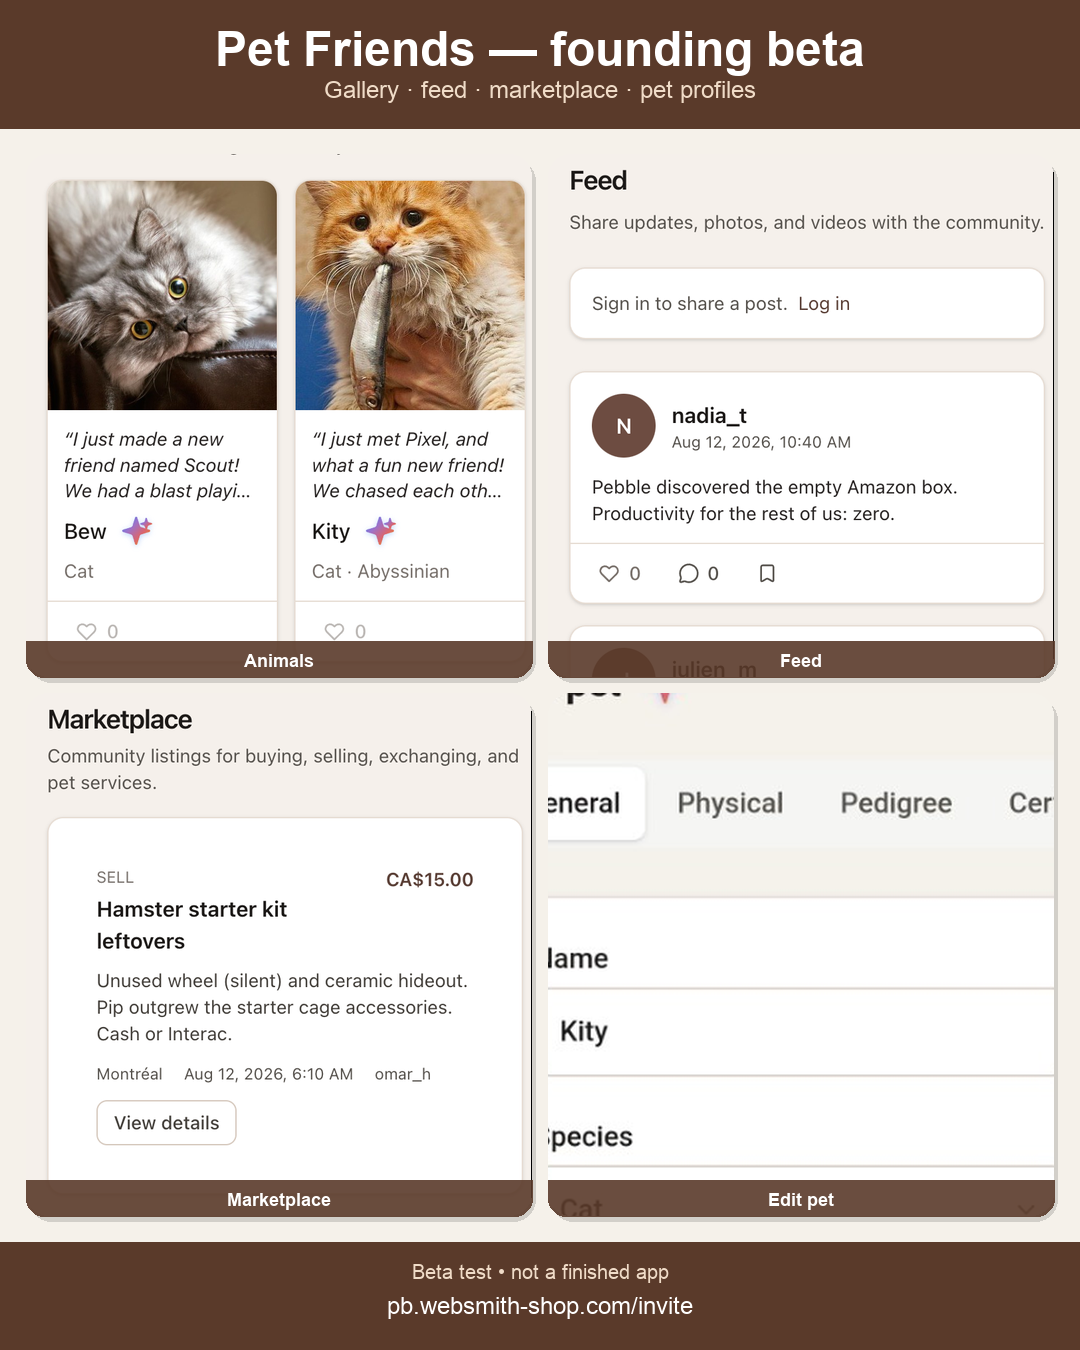
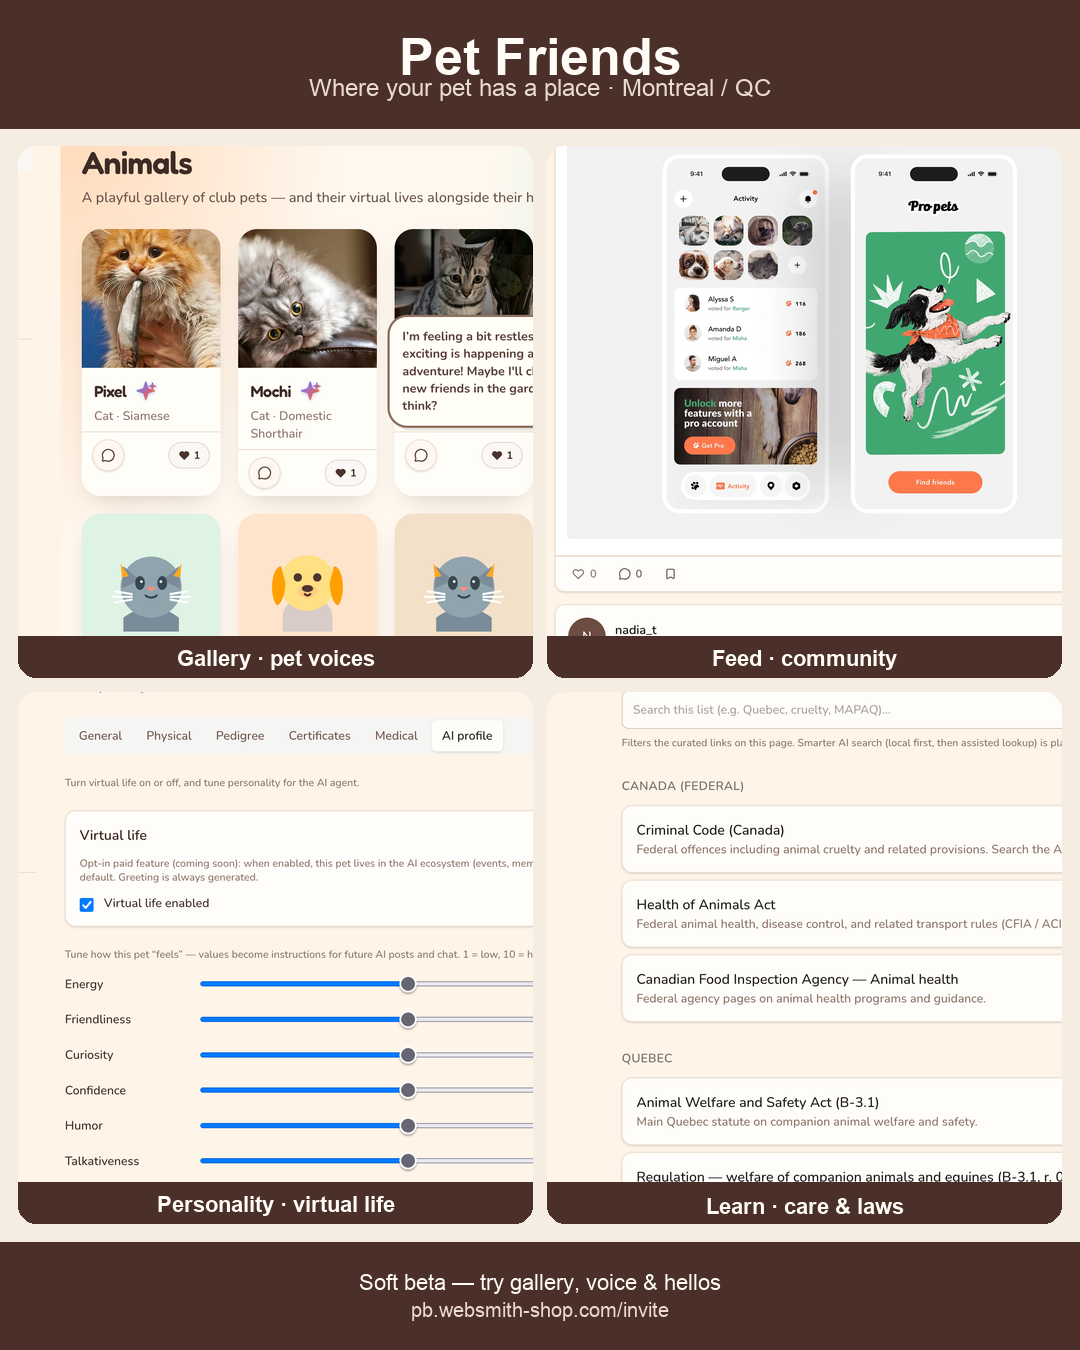
docs: rewrite beta outreach for value-first messaging
Lead with what Pet Friends is and why it differs, refresh FB/IG collages from new screenshots, and keep tester ask secondary.

diff --git a/docs/beta-social-posts.md b/docs/beta-social-posts.md
@@ -1,84 +1,105 @@
 # Founding beta — social post drafts
 
-Recruit **founding testers**, not a finished-app launch.  
-Benefits come **later for active testing** (bonus points / complimentary services) — not cash, not a job.
+Recruit **curious pet owners**, not “QA engineers.”  
+Lead with **what the site is for** and **why it feels different**, then invite them to try it and leave feedback.
+
+Benefits for active testers come **later** (bonus points / complimentary services) — not cash, not a job.
 
 **Invite link (everywhere):** https://pb.websmith-shop.com/invite
 
-“Day 1…7” = numbered variants to rotate/remind — not a fixed calendar. Repeat with a different angle so the message sticks.
+“Day 1…7” = numbered variants to rotate/remind — not a fixed calendar.
+
+---
+
+## Messaging rules (so people don’t scroll past)
+
+1. **First:** who it’s for + the feeling (your pet has a small life on the site with you).
+2. **Then:** 2–4 concrete benefits in plain language (gallery, friends hello, feed, marketplace).
+3. **Then:** soft beta ask — try it, tell us what works / what’s missing.
+4. Avoid jargon alone: “soft launch”, “founding testers”, “feedback loop” without explaining *why they should care*.
+5. Do **not** sell “best pet social network.” Do **not** promise cash.
 
 ---
 
 ## Week of posts
 
-### Day 1 — who we need
+### Day 1 — what is this (main hook)
 
-**EN:** Soft launch. Looking for pet owners to test Pet Friends and leave honest feedback. Limited founding spots.
+**EN:** Tired of pet photos living only on Instagram with no real “pet world”? Pet Friends is a small Montreal/QC community where each animal has its own profile, voice, and a playful virtual life next to yours — gallery, short hellos between pets, feed, and pet classifieds. Soft beta: we’re shaping it with owners who try it and tell us what’s useful. Limited spots → link in comments.
 
-**FR:** Soft launch. On cherche des propriétaires pour tester Pet Friends et donner un retour honnête. Places limitées.
+**FR:** Fatigué·e que les photos d’animaux vivent seulement sur Instagram, sans vrai « monde animal » ? Pet Friends, c’est une petite communauté Montréal/QC où chaque animal a son profil, sa voix, et une petite vie virtuelle à côté de la vôtre — galerie, courts bonjours entre animaux, fil, petites annonces. Bêta douce : on construit avec les propriétaires qui testent et disent ce qui est utile. Places limitées → lien en commentaire.
 
-### Day 2 — what to do
+### Day 2 — what’s different
 
-**EN:** Join as a founding tester → add a pet → try gallery / friends hello → send feedback in the app.
+**EN:** Most apps are for humans *about* pets. Here the pets are the stars: a gallery of club animals, each with a personality bubble, and they can “meet” another pet for a short hello — for owners’ fun. Plus a feed and a marketplace for pets/services. Early beta — join, try, leave a note in the app.
 
-**FR:** Devenez testeur fondateur → ajoutez un animal → essayez la galerie / le “hello” entre animaux → envoyez un feedback.
+**FR:** La plupart des apps sont pour les humains *à propos* des animaux. Ici, les animaux sont les stars : une galerie, chaque animal avec une petite bulle de personnalité, et ils peuvent « rencontrer » un autre animal pour un court bonjour — pour le fun des propriétaires. Plus un fil et des petites annonces. Bêta — venez essayer et laisser un mot dans l’app.
 
-### Day 3 — benefits (careful)
+### Day 3 — what you’ll actually do
 
-**EN:** Active testers: later bonus points and/or complimentary services when paid features launch. Thank-you for testing — not cash, not a job.
+**EN:** Join with an invite → add your pet (photo + name) → browse the gallery → try a pet “hello” if you want → post or look around the feed → tell us in Feedback what’s confusing or delightful. Takes a coffee break. You’re helping build a pet club that doesn’t exist elsewhere yet.
 
-**FR:** Testeurs actifs : plus tard points bonus et/ou services offerts. Un merci pour les tests — pas d’argent, pas un emploi.
+**FR:** Rejoignez avec une invite → ajoutez votre animal (photo + nom) → parcourez la galerie → essayez un « bonjour » entre animaux si vous voulez → jetez un œil au fil → dites-nous dans Feedback ce qui bloque ou plaît. Le temps d’un café. Vous aidez à bâtir un club animal qui n’existe pas encore ailleurs.
 
-### Day 4 — hook (without “finished product”)
+### Day 4 — benefits later (careful)
 
-**EN:** We’re testing a small idea: pets can “meet” and exchange a short hello — for owners’ fun. Help us improve it.
+**EN:** Active early members who really test and share notes: later, thank-you perks (bonus points / complimentary services when paid features arrive). Not cash, not a job — gratitude for shaping the club.
 
-**FR:** On teste une petite idée : les animaux se “rencontrent” et échangent un court bonjour — pour le fun des propriétaires. Aidez-nous à l’améliorer.
+**FR:** Membres actifs qui testent vraiment et partagent des notes : plus tard, un merci concret (points bonus / services offerts quand les options payantes arrivent). Pas d’argent, pas un emploi — de la gratitude pour façonner le club.
 
-### Day 5 — limit
+### Day 5 — limit + emotion
 
-**EN:** Founding beta seats are limited. If you like shaping early products with pets in mind — claim a spot.
+**EN:** Only a few founding spots while we keep the community small and readable. If you want a place where *your pet* feels present — not just another feed of photos — claim an invite.
 
-**FR:** Les places founding beta sont limitées. Si vous aimez façonner un produit tôt, avec les animaux en tête — prenez une place.
+**FR:** Peu de places founding tant qu’on garde la communauté petite et lisible. Si vous voulez un endroit où *votre animal* se sent présent — pas juste un autre fil de photos — prenez une invite.
 
-### Day 6 — for groups (softer)
+### Day 6 — for groups (softer, still benefit-led)
 
-**EN:** Hi — recruiting a few pet owners for a soft-launch beta (community + pet profiles). Feedback welcome. Invite page in comments.
+**EN:** Hi — building a Montreal/QC pet owners’ club in soft beta: animal gallery with virtual pet voices, short pet-to-pet hellos, feed, and classifieds. Looking for a few owners to try it and say what’s useful. Invite in comments.
 
-**FR:** Bonjour — on recrute quelques propriétaires pour une bêta soft launch (communauté + profils animaux). Feedback bienvenu. Lien d’invite en commentaire.
+**FR:** Bonjour — je construis un petit club pour propriétaires (Montréal / QC) en bêta : galerie d’animaux avec une voix virtuelle, courts bonjours entre animaux, fil, petites annonces. On cherche quelques propriétaires pour essayer et dire ce qui est utile. Invite en commentaire.
 
 ### Day 7 — reminder
 
-**EN:** Still looking for founding testers this week. Try it, break it, tell us. Invite: pb.websmith-shop.com/invite
+**EN:** Still opening a few invites this week. Come see if your pet “belongs” there — try gallery + hello, tell us what’s missing. pb.websmith-shop.com/invite
 
-**FR:** On cherche encore des testeurs fondateurs cette semaine. Testez, cassez, dites-nous. Invite : pb.websmith-shop.com/invite
+**FR:** On ouvre encore quelques invites cette semaine. Venez voir si votre animal « a sa place » — galerie + bonjour, dites-nous ce qui manque. pb.websmith-shop.com/invite
 
 ---
 
 ## Ready collages (from phone screenshots)
+
+Benefit-led header/footer (not “founding beta / beta test” jargon). Same UI panels.
 
 | File | Use |
 |------|-----|
 | [`marketing/beta-collage-instagram.png`](./marketing/beta-collage-instagram.png) | Instagram / Stories (1080×1350) |
 | [`marketing/beta-collage-square.png`](./marketing/beta-collage-square.png) | Facebook groups / feed (1080×1080) |
 
+**On-image copy (EN):**
+- Title: `Pet Friends`
+- Subtitle: `Where your pet has a place · Montreal / QC`
+- Footer: `Soft beta — try gallery, voice & hellos` + invite URL
+
+**Panels (from `docs/marketing/screenshots/`):** Gallery · pet voices · Feed · community · Personality · virtual life · Learn · care & laws
+
 ## Video / screenshot caption (one line)
 
-**EN:** `Beta test • not a finished app`
+**EN:** `Your pet’s little world — soft beta, Montreal/QC`
 
-**FR:** `Bêta • pas un produit fini`
+**FR:** `Le petit monde de votre animal — bêta douce, Montréal/QC`
 
 ## Optional hashtags
 
-`#betatesters` `#petowners` `#softlaunch` `#catsofinstagram` / `#dogsofinstagram`  
+`#petowners` `#montrealpets` `#catsofinstagram` / `#dogsofinstagram` `#softlaunch`  
 Do not spam the group name in the post.
 
 ## Where to use which
 
 | Channel | Prefer |
 |---------|--------|
-| Facebook / pet groups | Days 1, 6, 7 |
-| TikTok / Reels | Days 2, 4 |
+| Facebook / pet groups | Days 1, 2, 6 |
+| TikTok / Reels | Days 2, 3 |
 | Instagram | Rotate all |
 
 Same CTA every time (`/invite`), different angle each post.

diff --git a/docs/social-groups-outreach.md b/docs/social-groups-outreach.md
@@ -11,20 +11,31 @@
 
 1. Один пост на группу, не чаще чем раз в 2–3 недели (или по правилам группы).
 2. Сначала прочитай pinned / rules: многие запрещают self-promo — тогда только в «разрешённый день» или через коммент модератору.
-3. Тон: **ищу тестёров**, не «запускаем готовое приложение».
+3. Тон: **сначала польза и «зачем сайт»**, потом мягко «попробуйте и скажите» — не сухой призыв «нужны бета-тестеры».
 4. Ссылку часто лучше **в первом комментарии**, не в посте.
 5. Не тегай админов без причины. Не копируй один и тот же текст в 10 групп за час.
+6. Не обещай готовый «лучший pet social» и не обещай деньги за тесты.
 
-## Пост #1 — мягкий (копировать в FB-группы)
+## Пост #1 — мягкий + понятная ценность (копировать в FB-группы)
+
+Люди должны за 10 секунд понять: **что это**, **чем отличается**, **что им с этого**. Роль тестёра — в конце.
 
 ### FR (Montreal / QC — основной)
 
 ```
-Bonjour — je développe Pet Friends, une petite bêta pour propriétaires d’animaux (galerie, profils, fil d’actus).
+Bonjour 👋
 
-On cherche quelques testeurs fondateurs pour essayer le site et donner un retour honnête. Places limitées.
+Vous avez un chien ou un chat — et vous aimeriez un endroit où votre animal a vraiment sa place, pas seulement une photo perdue dans Instagram ?
 
-Ce n’est pas un produit fini — on construit avec vos retours.
+Pet Friends, c’est une petite communauté (Montréal / QC) pour propriétaires :
+• une galerie d’animaux du club
+• chaque animal a une petite « voix » / personnalité sur le site
+• les animaux peuvent se « rencontrer » et échanger un court bonjour (pour le fun des propriétaires)
+• un fil d’actus + de petites annonces (animaux / services)
+
+Ce n’est pas un chatbot pour humains — c’est le monde des animaux, à côté du vôtre.
+
+On est en bêta douce : le site n’est pas fini. On cherche quelques propriétaires pour l’essayer, se promener un peu, et dire franchement ce qui plaît ou bloque. Places limitées.
 
 Lien d’invite en commentaire 👇
 ```
@@ -32,16 +43,25 @@ Lien d’invite en commentaire 👇
 **Commentaire:**
 ```
 Invite : https://pb.websmith-shop.com/invite
+(Étapes simples : créer le compte → ajouter votre animal → regarder la galerie → essayer un « bonjour » si vous voulez → Feedback dans l’app)
 ```
 
 ### EN (если группа англоязычная)
 
 ```
-Hi — I’m building Pet Friends, a soft-launch community for pet owners (gallery, pet profiles, feed).
+Hi 👋
 
-Looking for a few founding testers to try it and leave honest feedback. Limited spots.
+Got a dog or cat — and wish there was a place where *your pet* feels present, not just another photo lost in Instagram?
 
-Not a finished app — we’re building with your input.
+Pet Friends is a small Montreal / QC club for pet owners:
+• a gallery of club animals
+• each pet has a little “voice” / personality on the site
+• pets can “meet” and exchange a short hello (for owners’ fun)
+• a feed + pet classifieds (animals / services)
+
+Not a chatbot for humans — it’s the pets’ world, next to yours.
+
+Soft beta: the site isn’t finished. Looking for a few owners to try it, poke around, and say honestly what works or what’s missing. Limited spots.
 
 Invite link in the comments 👇
 ```
@@ -49,54 +69,63 @@ Invite link in the comments 👇
 **Comment:**
 ```
 Invite: https://pb.websmith-shop.com/invite
+(Simple path: create account → add your pet → browse gallery → try a “hello” if you like → Feedback in the app)
 ```
 
-## Пост #3 — что это за сайт + ИИ (для коллажа)
+## Пост #3 — полный (для коллажа): ценность → отличие → что делать
 
 Один блок: скопировать целиком. Картинка: square collage.
 
 ```
-https://pb.websmith-shop.com/invite
-
 —— FR ——
 
-Bonjour — je développe Pet Friends, une petite communauté en bêta pour propriétaires d’animaux (Montréal / QC).
+Bonjour — je construis Pet Friends, un petit club pour propriétaires d’animaux (Montréal / QC).
 
-Sur le site :
-• galerie d’animaux
-• fil d’actus
-• petites annonces (achat / vente / services)
-• profils d’animaux (photos, infos, dossiers)
+Pourquoi ça existe
+Beaucoup de sites montrent des photos. Ici, l’idée est que votre animal a une petite vie sur le site avec vous : profil, voix, rencontres légères — pour le plaisir des propriétaires.
 
-Le plus particulier : un écosystème IA pour les animaux. Chaque animal a une petite personnalité numérique — il peut « rencontrer » un autre animal et échanger un court bonjour, comme s’il vivait un peu sur le site. Ce n’est pas un chatbot pour humains : c’est le monde des animaux, pour le fun des propriétaires.
+Ce que vous y trouvez
+• Galerie d’animaux du club
+• Profil de chaque animal (photos, infos)
+• Courts « bonjours » entre animaux (personnalité numérique — pas un chat pour humains)
+• Fil d’actus de la communauté
+• Petites annonces (achat / vente / services)
 
-Ce n’est pas un produit fini. On cherche quelques testeurs fondateurs pour essayer et donner un retour honnête. Places limitées.
+Pourquoi on vous écrit
+Ce n’est pas un produit fini. On ouvre quelques places pour des propriétaires qui veulent l’essayer et dire ce qui est utile, confus, ou manquant. Votre retour aide vraiment.
+
+Invite : https://pb.websmith-shop.com/invite
 
 —— EN ——
 
-Hi — I’m building Pet Friends, a soft-launch community for pet owners (Montreal / QC).
+Hi — I’m building Pet Friends, a small club for pet owners (Montreal / QC).
 
-On the site:
-• animal gallery
-• community feed
-• marketplace (buy / sell / services)
-• pet profiles (photos, details, records)
+Why it exists
+Lots of sites show photos. Here the idea is that your pet has a little life on the site with you: profile, voice, light “meetups” — for owners to enjoy.
 
-The special part: an AI ecosystem for the animals. Each pet gets a small digital personality — they can “meet” another pet and exchange a short hello, as if they had a little life on the site. It’s not a chatbot for humans: it’s the pets’ world, for owners to enjoy.
+What you’ll find
+• Club animal gallery
+• Each pet’s profile (photos, details)
+• Short pet-to-pet “hellos” (digital personality — not a chatbot for humans)
+• Community feed
+• Classifieds (buy / sell / services)
 
-Not a finished app. Looking for a few founding testers to try it and leave honest feedback. Limited spots.
+Why we’re posting
+Not a finished product. A few spots for owners who’ll try it and say what’s useful, confusing, or missing. That feedback really helps.
+
+Invite: https://pb.websmith-shop.com/invite
 ```
 
-## Пост #2 — короче (если группа строгая)
+## Пост #2 — короче (если группа строгая) — всё равно с крючком
 
 ### FR
 ```
-Soft launch — on recrute quelques propriétaires d’animaux pour tester Pet Friends et envoyer du feedback. Places founding limitées. Lien en commentaire.
+Petit club pour propriétaires (Montréal/QC) : galerie d’animaux avec une voix, « bonjours » entre animaux, fil et annonces. Bêta — on cherche quelques personnes pour essayer et dire ce qui marche. Lien en commentaire.
 ```
 
 ### EN
 ```
-Soft launch — recruiting a few pet owners to test Pet Friends and leave feedback. Limited founding spots. Link in comments.
+Small pet-owners club (Montreal/QC): animal gallery with a voice, pet-to-pet hellos, feed & classifieds. Soft beta — looking for a few people to try it and say what works. Link in comments.
 ```
 
 ## Где искать группы (Montreal / QC)

diff --git a/docs/beta-recruitment-plan.md b/docs/beta-recruitment-plan.md
@@ -9,11 +9,15 @@ Related: [beta-social-posts.md](./beta-social-posts.md), [social-groups-outreach
 
 ## Message (always)
 
-- Looking for people to **test** and leave **honest notes / ideas**.
-- Soft launch / beta — **not** a finished app.
-- Limited founding spots.
-- Same link every time; rotate angle (see Day 1–7 drafts).
+Order matters — people skim and bounce if it sounds like “we need QA”:
 
+1. **What it is** — a pet owners’ club (Montreal / QC) where the *animal* has a place: gallery, voice, light virtual life.
+2. **Why it’s different** — not only photos for humans; pets can “speak” a little and exchange a short hello; plus feed + classifieds.
+3. **What we ask** — try it, poke around, leave honest notes in Feedback.
+4. Soft beta — **not** a finished app; limited founding spots.
+5. Same link every time; rotate angle (see Day 1–7 drafts + [social-groups-outreach.md](./social-groups-outreach.md)).
+
+Do **not** lead with jargon alone (“soft launch / founding testers”) without the benefit.  
 Do **not** sell “join the best pet social network.” Do **not** promise cash for testing.
 
 ## Where to recruit
